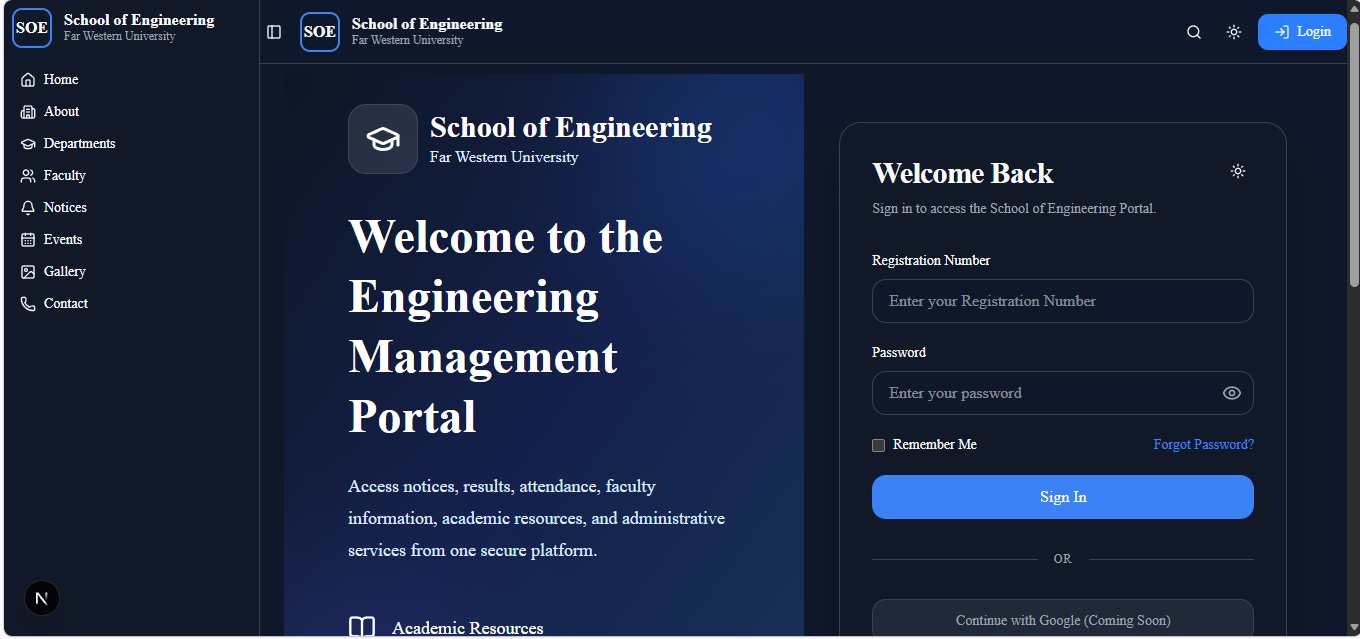
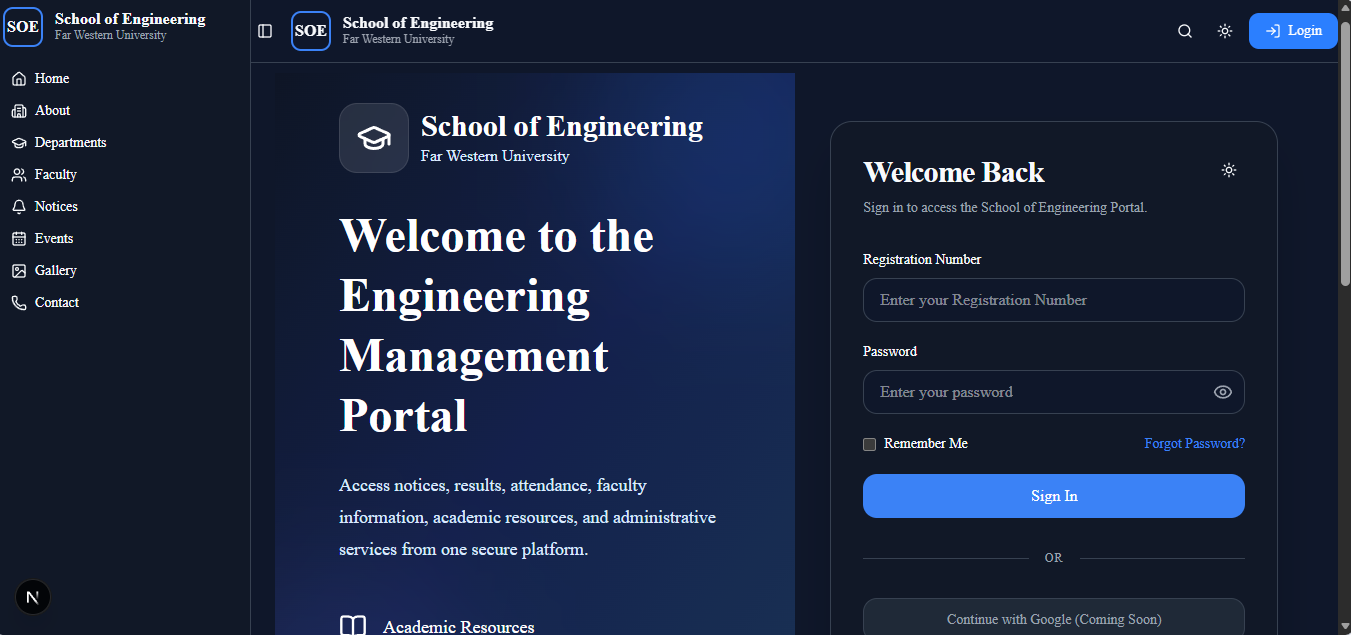
Problem is resolved which was occuring in admin.guard due to mismatch string value of requested payload-role

diff --git a/frontend/src/lib/admin-session.ts b/frontend/src/lib/admin-session.ts
@@ -45,27 +45,27 @@ export function getAdminSession(): AdminSession | null {
   const rawUser = sessionStorage.getItem(USER_KEY);
   if (!token || !rawUser) return null;
 
-  // const payload = decodePayload(token);
-  // if (!payload?.exp || payload.role !== "ADMIN" || payload.exp * 1000 < Date.now()) {
-  //   clearAdminSession();
-  //   return null;
-  // }
+  const payload = decodePayload(token);
+  if (!payload?.exp || payload.role !== "ADMIN" || payload.exp * 1000 < Date.now()) {
+    clearAdminSession();
+    return null;
+  }
 
-const payload = decodePayload(token);
+// const payload = decodePayload(token);
 
-console.log("Admin JWT payload:", payload);
+// console.log("Admin JWT payload:", payload);
 
-if (!payload?.exp) {
-  console.error("Admin token is missing its expiration claim.");
-  clearAdminSession();
-  return null;
-}
+// if (!payload?.exp) {
+//   console.error("Admin token is missing its expiration claim.");
+//   clearAdminSession();
+//   return null;
+// }
 
-if (payload.role !== "ADMIN") {
-  console.error("Unexpected admin role:", payload.role);
-  clearAdminSession();
-  return null;
-}
+// if (payload.role !== "ADMIN") {
+//   console.error("Unexpected admin role:", payload.role);
+//   clearAdminSession();
+//   return null;
+// }
 
 if (payload.exp * 1000 < Date.now()) {
   console.error("Admin token has expired.");

diff --git a/frontend/src/lib/admin-api.ts b/frontend/src/lib/admin-api.ts
@@ -28,11 +28,27 @@ export async function adminFetch<T = unknown>(path: string, init: RequestInit = 
   }
 
   // Expired or non-admin token: end the session and go back to the login page
-  if (response.status === 401 || response.status === 403) {
-    clearAdminSession();
-    window.location.assign("/admin/login");
-    throw new AdminApiError("Your session has ended. Please sign in again.", response.status);
-  }
+  // if (response.status === 401 || response.status === 403) {
+  //   clearAdminSession();
+  //   window.location.assign("/admin/login");
+  //   throw new AdminApiError("Your session has ended. Please sign in again.", response.status);
+  // }
+  if (response.status === 401) {
+  clearAdminSession();
+  window.location.assign("/admin/login");
+
+  throw new AdminApiError(
+    "Your session is invalid or has expired. Please sign in again.",
+    401,
+  );
+}
+
+if (response.status === 403) {
+  throw new AdminApiError(
+    "You don't have permission to access this resource.",
+    403,
+  );
+}
 
   const body = await response.json().catch(() => null);
 

diff --git a/backend/src/adminauth/admin.guard.ts b/backend/src/adminauth/admin.guard.ts
@@ -27,7 +27,7 @@ export class AdminGuard implements CanActivate {
       throw new UnauthorizedException("Invalid or expired token.");
     }
 
-    if (payload.role !== "admin") throw new ForbiddenException("Admins only.");
+    if (payload.role !== "ADMIN") throw new ForbiddenException("Admins only.");
 
     request.admin = payload; // available in controllers as @Req() req.admin
     return true;
